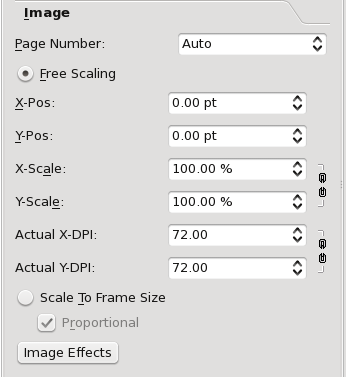
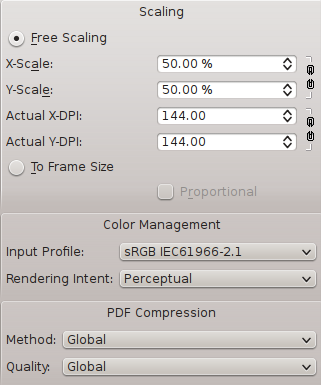
150 updates to WwImages
git-svn-id: file:///svn/Scribus/trunk/Scribus@17659 11d20701-8431-0410-a711-e3c959e3b870

diff --git a/doc/en/WwImages.html b/doc/en/WwImages.html
@@ -75,16 +75,17 @@ Scaling or as is set in <i>File&nbsp;&gt; Preferences/Document Setup&nbsp;&gt; T
 <li><b>X-Scale</b> and <b>Y-Scale</b> - Magnification of the image, compared to its native DPI.</li>
 <li><b>Actual X-DPI</b> and <b>Actual Y-DPI</b> - These of course are
 inversely related to magnification. Your monitor will still likely be
-showing the image at no better than 72 PPI, but this refers to the
+showing the image at no better than 72 or 96 PPI, but this setting refers to the
 final resolution to be exported to the PDF.</li>
 </ul>
-<p>In many cases, we may have a more or less set frame size we wish to squeeze an entire image into, in which case choosing <b>Scale to Frame Size</b> (or <b>Adjust Image to Frame</b> from the Context Menu) makes sense. Without checking <b>Proportional</b>,
+<p>In many cases, we may have a more or less set frame size we wish to squeeze an entire image into, in which case choosing <b>To Frame Size</b> (or <b>Adjust Image to Frame</b> from the Context Menu) makes sense. Without checking <b>Proportional</b>,
 the image is simply stretched to fit the frame and may be quite
 distorted. You should find the combination of scaling to frame size
 (proportional) and then <b>Adjust Frame to Image</b> from the Context Menu very useful for making a frame exactly the right size for your image.
-</p><p><b>Image Effects</b> will be discussed elsewhere.</p></td>
+</p><p>The <strong>Color Management</strong> section tells us that you can now specify per-frame profiles, as well as the <strong>Rendering Intent</strong>. Likewise, we can see that image compression type and degree on PDF export can now follow the <i>Global</i> settings or be on a per-frame basis.</p></td>
 <td><img src="images/Image_Properties.png" alt="Properties: Image"></td>
 </tr>
+<tr><td><img src="images/Image_warning.png"><p>If you see this warning triangle in the lower right corner of your frame, it indicates that the image resolution is below 144 DPI, or whatever you have set as your minimum value in the Preflight Verifier settings in <i>File > Preferences</i> or <i>File > Document Settings</i>. This is strictly a warning.</td></tr>
 </tbody></table>
 <h3>Edit Contents Mode</h3>
 Enter Edit Contents mode by clicking the icon on the toolbar, or pressing <b>E</b> from the keyboard. Go back to Select Item mode by pressing <b>Esc</b>, or clicking outside, then inside the frame. You will need to have checked <b>Free Scaling</b> in order for this to be operational.
